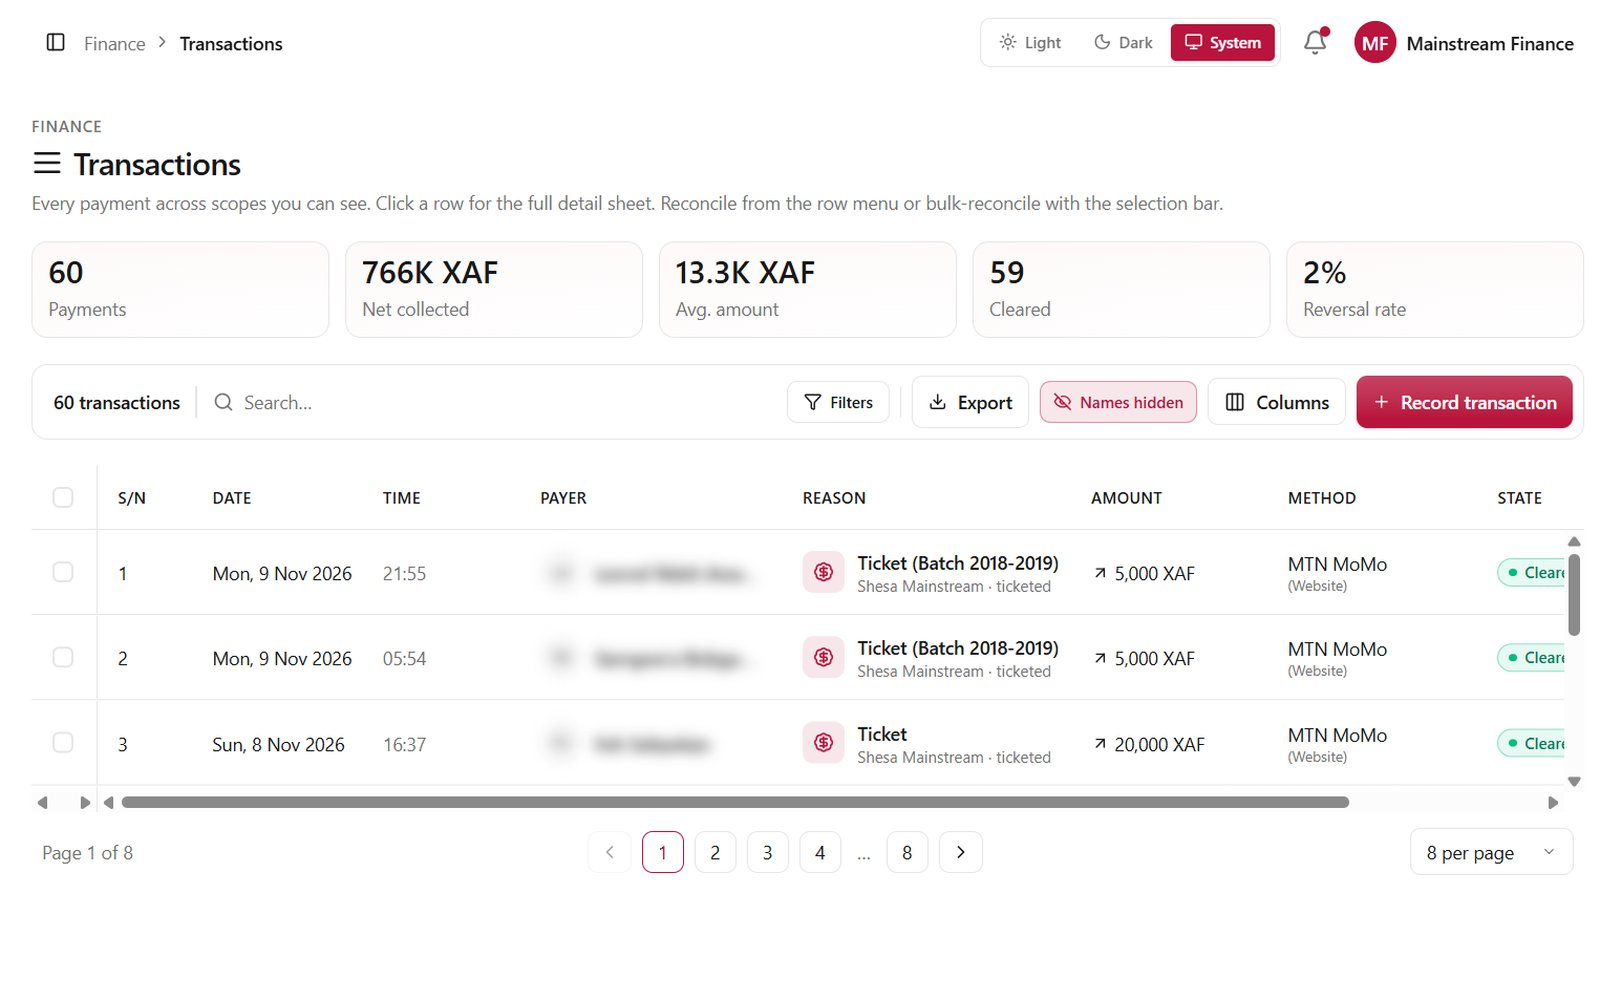
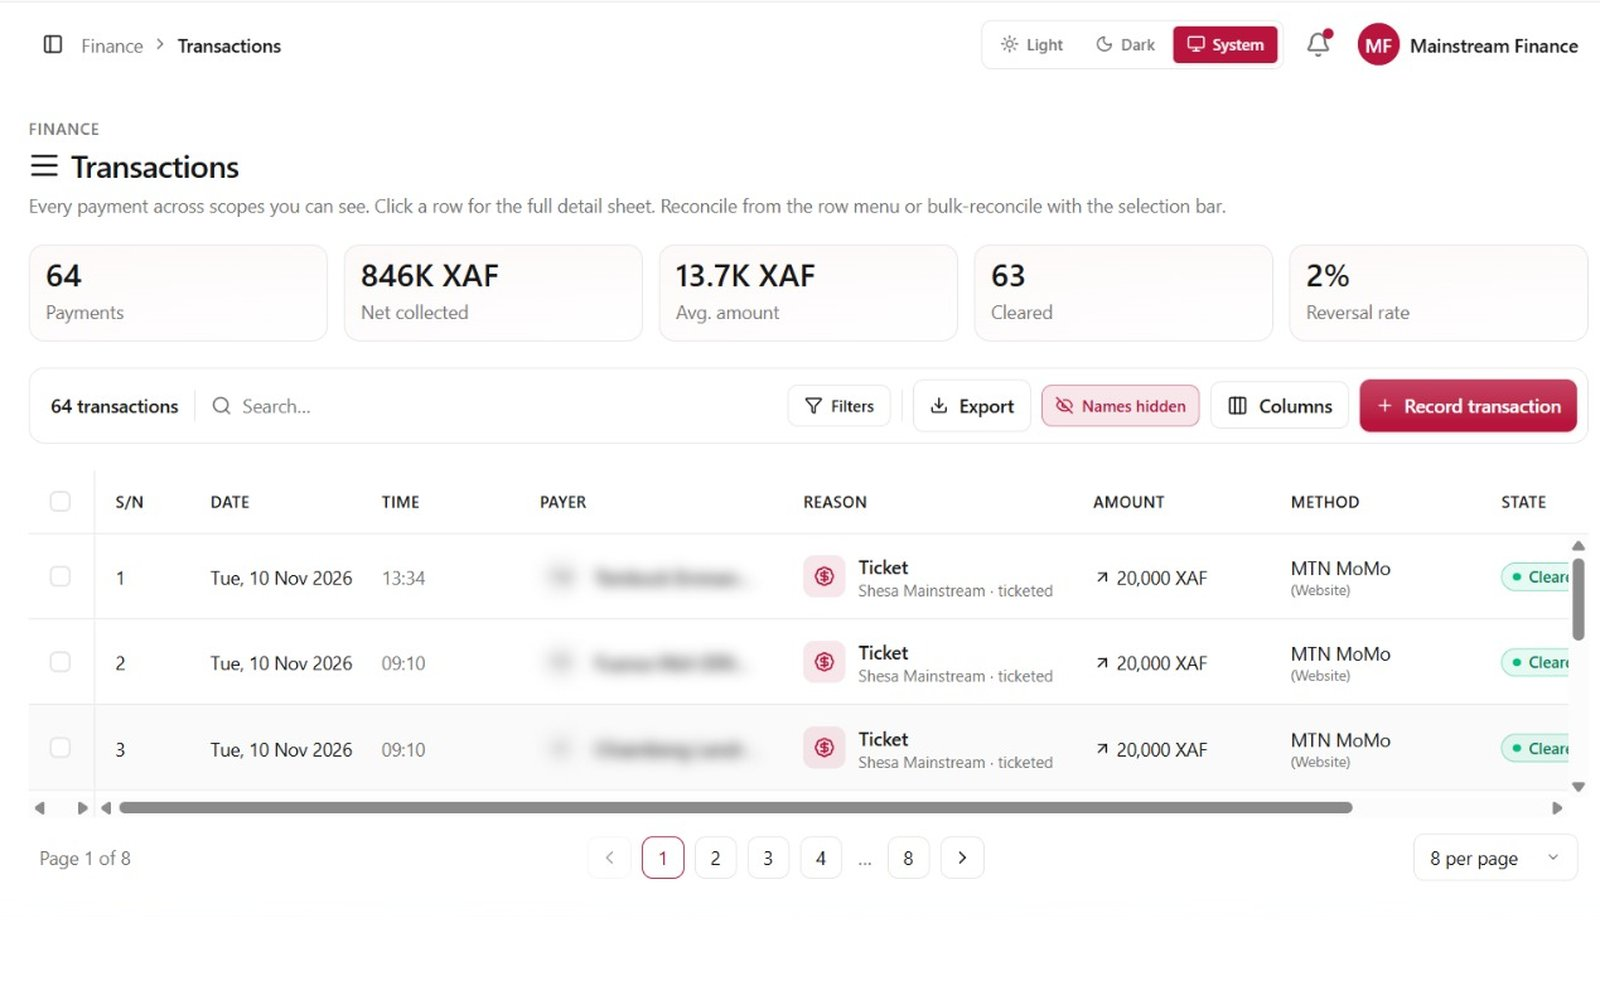
feat(web): pitch traction shows over a million collected
Refreshes the live Finance screenshot (846K XAF on 10 Nov 2026) and moves
the traction figure and narration to 1,000,000+ XAF, where collections
are expected to be by pitch day.

Claude-Session: https://claude.ai/code/session_01Km8PiDK15wbdjhPAZhHYVz

diff --git a/apps/web/src/components/platforms/platforms-content.ts b/apps/web/src/components/platforms/platforms-content.ts
@@ -172,7 +172,7 @@ export const PLATFORMS: readonly Platform[] = [
     status: 'Live',
     device: 'browser',
     browserShots: [
-      // Live production data (9 Nov 2026), captured with "Hide names" on.
+      // Live production data (10 Nov 2026, 846K XAF collected), captured with "Hide names" on.
       { src: '/platforms/shots/finance-transactions-live.jpg', motion: 'still' },
       { src: '/platforms/shots/finance-contributions.jpg', motion: 'still' },
       { src: '/platforms/shots/finance-reports.jpg', motion: 'still' },
@@ -350,12 +350,14 @@ export const LIVE_NOW = [
 /**
  * The projection said Year 1 brings in nothing; the pilot already moved
  * real money. `actual` is money collected through the platforms (the
- * Finance App's "Net collected" was 766K XAF on 9 Nov 2026), not
+ * Finance App's "Net collected" was 846K XAF on 10 Nov 2026), not
  * platform-fee revenue — the copy says "collected" for that reason.
  */
 export const TRACTION = {
   projected: 0,
-  actual: 800_000,
+  /** Shown as "1,000,000+": the Finance App read 846K on 10 Nov 2026 and
+   * is expected past a million by pitch day. */
+  actual: 1_000_000,
   window: 'within two months of pilot launch',
 } as const;
 
@@ -534,7 +536,7 @@ export const PITCH_SCENES: readonly Scene[] = [
   {
     id: '18-ahead-of-plan',
     kind: 'traction',
-    vo: 'Those projections turned out to be cautious. They assumed nothing coming in during year one. Within two months of the pilot launch, close to eight hundred thousand francs has already been collected through the platform.',
+    vo: 'Those projections turned out to be cautious. They assumed nothing coming in during year one. Within two months of the pilot launch, over a million francs has already been collected through the platform.',
   },
   {
     id: '19-investment',

diff --git a/apps/web/src/components/platforms/scenes.tsx b/apps/web/src/components/platforms/scenes.tsx
@@ -1086,8 +1086,14 @@ function TractionScene({ seconds }: SceneProps) {
             Actual · first two months
           </p>
           <p className="mt-3 font-heading text-[clamp(2.6rem,7.4vw,8rem)] whitespace-nowrap font-light leading-none tabular-nums text-white">
-            <span className="text-white/45">~</span>
             {formatXaf(actual)}
+            <span
+              className={`text-primary transition-opacity duration-500 ${
+                actual >= TRACTION.actual ? 'opacity-100' : 'opacity-0'
+              }`}
+            >
+              +
+            </span>
             <span className="ml-2 text-[0.3em] text-white/55">XAF</span>
           </p>
         </motion.div>

diff --git a/docs/product/platforms-reel-voiceover.md b/docs/product/platforms-reel-voiceover.md
@@ -131,7 +131,7 @@ _On screen: revenue_ · 51 words
 
 _On screen: traction_ · 35 words
 
-> Those projections turned out to be cautious. They assumed nothing coming in during year one. Within two months of the pilot launch, close to eight hundred thousand francs has already been collected through the platform.
+> Those projections turned out to be cautious. They assumed nothing coming in during year one. Within two months of the pilot launch, over a million francs has already been collected through the platform.
 
 ### 19. `19-investment.mp3`
 
